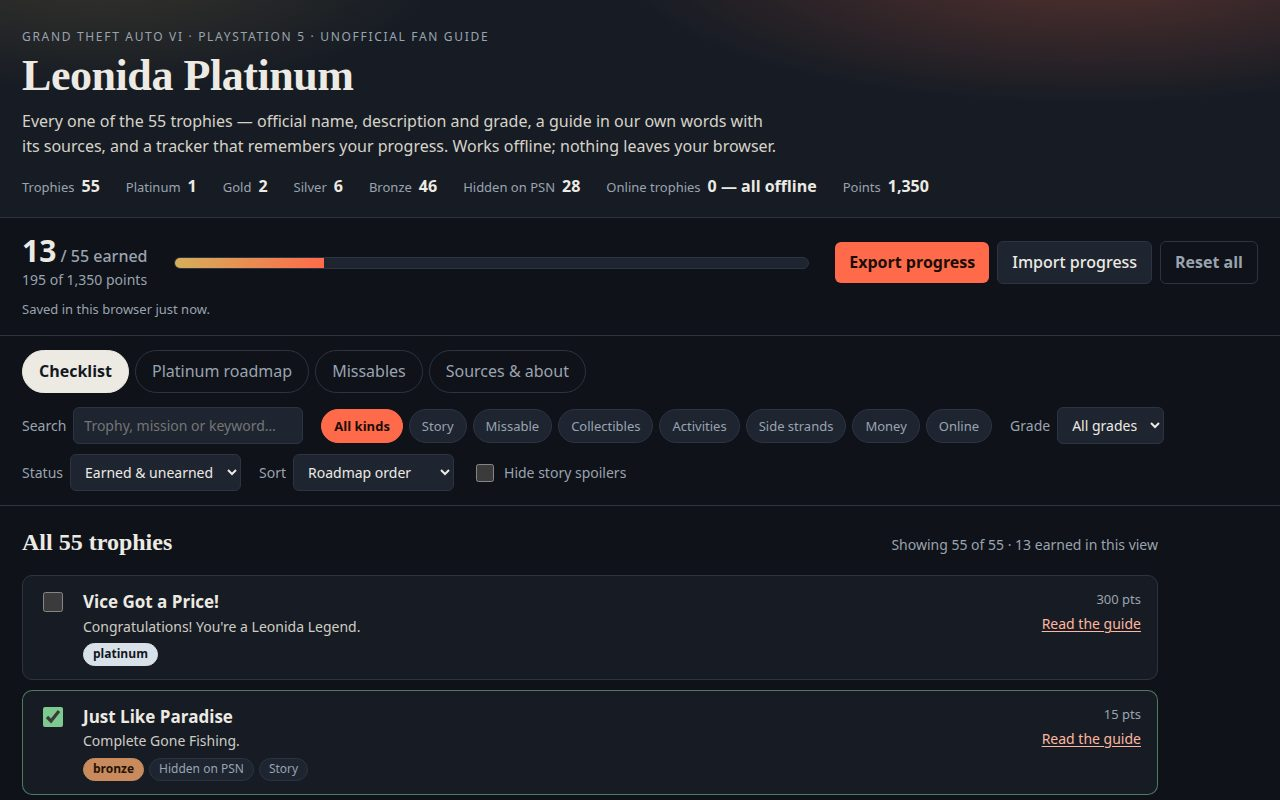
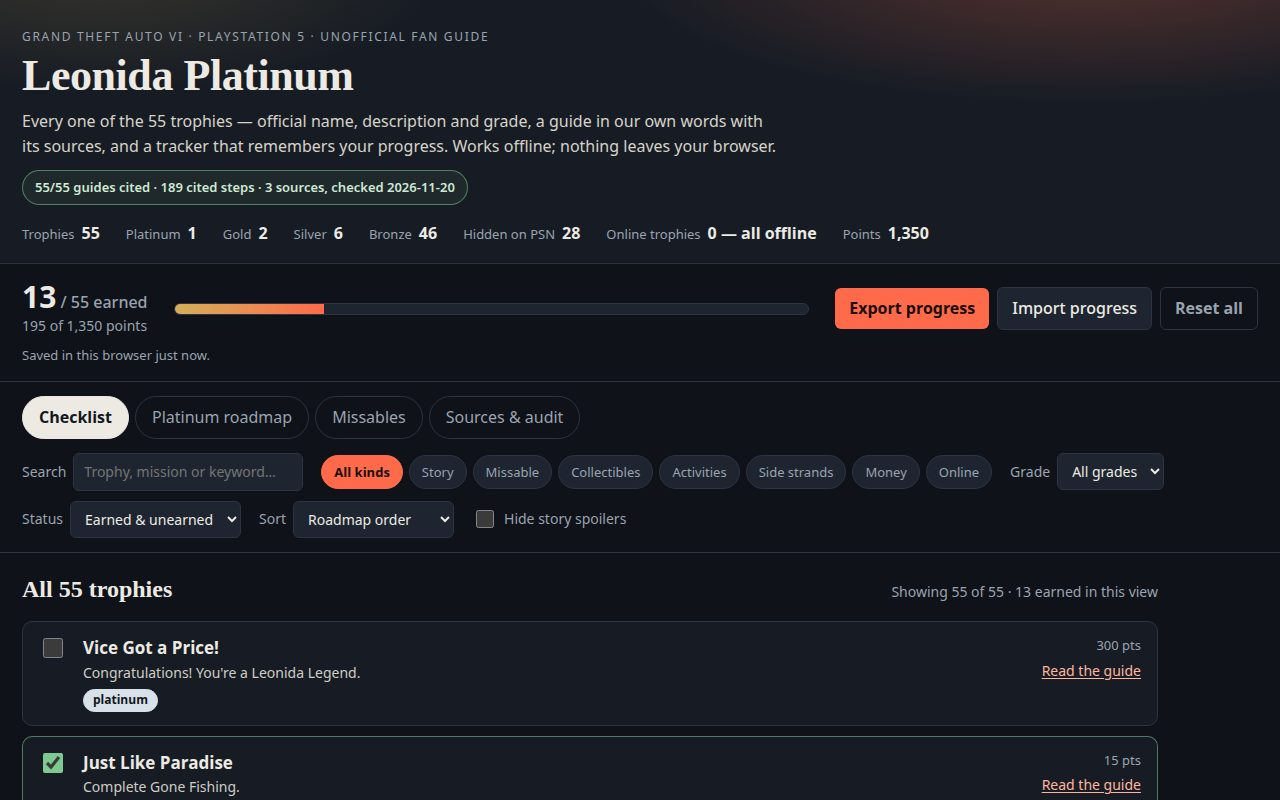
Leonida Platinum v2 (rebuild under recording): 189 cited steps, Sources & audit tab, Chapters 1-5 roadmap fix
- app/data/steps.json: 189 numbered steps for all 55 trophies, each with its
  source beside it (PowerPyx 181, Exophase 7, PSNProfiles 1), plus roadmap
  stage, chapter (30 trophies), mission (29), when-line, and Exophase earned
  rate as of 20 Nov 2026
- Header audit strip: 55/55 guides cited, 189 cited steps, 3 sources
- Sources & audit tab: source matrix + 4 disagreements shown both ways
  (final-mission chapter, Chapter 1 meditation, WAiNK count, Bad Luck method)
- Roadmap Stage 1 corrected: Chapters 1-5 (Snow Storm is Chapter 5)
- Screenshots retaken in headless Chromium (checklist, guide with steps,
  roadmap, audit tab)

diff --git a/app/app.js b/app/app.js
@@ -6,7 +6,14 @@
 
 const STORAGE_KEY = 'leonida-platinum-v1';
 const DATA_URL = 'data/trophies.json';
+const STEPS_URL = 'data/steps.json';
 const TOTAL_POINTS = 1350;
+
+const SOURCE_LABELS = {
+  powerpyx: 'PowerPyx',
+  exophase: 'Exophase',
+  psnprofiles: 'PSNProfiles',
+};
 
 const KIND_LABELS = {
   all: 'All kinds',
@@ -35,6 +42,28 @@ const state = {
 
 let trophies = [];
 let dataMeta = {};
+let stepsData = {};
+let stepsMeta = null;
+
+// Cited steps live in data/steps.json (one entry per trophy): each step is
+// written for this guide in our own words and names its source beside it.
+// The merge below keeps trophies.json (the gate-checked file) untouched.
+function extraFor(t) {
+  return (t && stepsData[String(t.id)]) || null;
+}
+
+function totalCitedSteps() {
+  return trophies.reduce((n, t) => n + ((extraFor(t)?.steps || []).length), 0);
+}
+
+function renderAuditStrip() {
+  const el = $('auditStrip');
+  if (!el) return;
+  const n = totalCitedSteps();
+  const srcs = stepsMeta?.sources?.length ?? 3;
+  const checked = stepsMeta?.checked ?? '2026-11-20';
+  el.textContent = `55/55 guides cited · ${n} cited steps · ${srcs} sources, checked ${checked}`;
+}
 
 const $ = (id) => document.getElementById(id);
 const viewEl = $('view');
@@ -99,7 +128,8 @@ function visibleTrophies() {
     if (state.status === 'earned' && !state.earned.has(t.id)) return false;
     if (state.status === 'unearned' && state.earned.has(t.id)) return false;
     if (q) {
-      const hay = `${t.name} ${t.description} ${t.guide} ${(t.kind || []).join(' ')}`.toLowerCase();
+      const stepsText = (extraFor(t)?.steps || []).map((s) => s.t).join(' ');
+      const hay = `${t.name} ${t.description} ${t.guide} ${stepsText} ${(t.kind || []).join(' ')}`.toLowerCase();
       if (!hay.includes(q)) return false;
     }
     return true;
@@ -262,7 +292,7 @@ const ROADMAP = [
   {
     title: 'Stage 1 — Play the story, and meditate early',
     hours: '60–80 hours',
-    body: 'Play Chapters 1–4 and the final mission in order. This earns the chapter trophies (Paradise Lost, T**s Ass Drug Money, Vice City, Baby!, Top Of The World, Ma), the mission trophies (Just Like Paradise, Trust, Break the Bank, Family Matters, DWNFALL, Hi-Jacked, Snow Storm) and the finale, You Gotta Know When to Get Off. There is no mission replay, so play carefully — but every story trophy here is automatic on completion, so none of them can be missed by failing a mission.',
+    body: 'Play Chapters 1–5 and the final mission in order. This earns the chapter trophies (Paradise Lost, T**s Ass Drug Money, Vice City, Baby!, Top Of The World, Ma), the mission trophies (Just Like Paradise, Trust, Break the Bank, Family Matters, DWNFALL, Hi-Jacked, Snow Storm) and the finale, You Gotta Know When to Get Off. There is no mission replay, so play carefully — but every story trophy here is automatic on completion, so none of them can be missed by failing a mission. Snow Storm is a Chapter 5 mission (Operation Savage Glory): the story runs to five chapters, and an earlier draft of this roadmap that said Chapters 1–4 was wrong — see Sources & audit for the chapter disagreement.',
     warn: 'Do the first meditation in Chapter 1, at Jason\u2019s house, the moment it is offered. PowerPyx flags Positive Mental Attitude as the only potentially missable trophy in the game, because that first meditation spot becomes permanently unavailable after Chapter 1. There are 18 meditation spots in 10 locations; do every one you pass.',
     items: [2, 3, 4, 5, 6, 7, 8, 9, 10, 11, 12, 13, 28],
   },
@@ -376,12 +406,12 @@ function renderMissables() {
   viewEl.append(safe);
 }
 
-function renderAbout() {
+function renderAudit() {
   viewEl.innerHTML = '';
   const box = document.createElement('div');
   box.className = 'prose';
   const h = document.createElement('h2');
-  h.textContent = 'Sources & about';
+  h.textContent = 'Sources & audit';
   const intro = document.createElement('p');
   intro.textContent = 'Every trophy name, description and grade in this guide is PlayStation\u2019s, as published on the official list and mirrored by Exophase and PSNProfiles — the two agree on all 55 names, descriptions and grades. The guides are written for this page in our own words; a guide may draw on other guides and cite them, and never copies their text.';
   const sh = document.createElement('h3');
@@ -401,6 +431,66 @@ function renderAbout() {
     li.append(a);
     list.append(li);
   }
+  // Audit summary, computed from the data the app actually loaded: every
+  // trophy has cited steps, and the counts below are the real ones.
+  const stepCounts = { powerpyx: 0, exophase: 0, psnprofiles: 0 };
+  let withChapter = 0;
+  let withMission = 0;
+  for (const t of trophies) {
+    const extra = extraFor(t);
+    if (!extra) continue;
+    for (const s of extra.steps || []) stepCounts[s.s] = (stepCounts[s.s] || 0) + 1;
+    if (extra.chapter) withChapter += 1;
+    if (extra.mission) withMission += 1;
+  }
+  const auditLine = document.createElement('p');
+  auditLine.className = 'audit-line';
+  auditLine.textContent = `Audit, checked 20 November 2026: 55/55 trophies have a cited guide — ${totalCitedSteps()} cited steps in total (PowerPyx ${stepCounts.powerpyx}, Exophase ${stepCounts.exophase}, PSNProfiles ${stepCounts.psnprofiles}). ${withChapter} trophies name their chapter, ${withMission} name their mission. Every step carries its source beside it; a step with no source earns no credit in this guide.`;
+  const matrixHead = document.createElement('h3');
+  matrixHead.textContent = 'Source matrix — what each source covers';
+  const matrix = document.createElement('table');
+  matrix.className = 'matrix';
+  const matrixRows = [
+    ['Source', 'Covers', 'Steps citing it'],
+    ['Exophase', 'All 55 names, descriptions and grades, plus the earned rate of every trophy (0.00–100.00% on 20 Nov 2026).', String(stepCounts.exophase)],
+    ['PSNProfiles', 'The same 55-name list (the two lists agree on every name, description and grade), plus PSN progress counts — for example 42 Shooting Range challenges.', String(stepCounts.psnprofiles)],
+    ['PowerPyx', 'The roadmap (4/10, about 200 hours, one playthrough, no mission replay, the one potentially missable trophy, cheats disabling trophies) and the 100% checklist details, plus the method behind nearly every step.', String(stepCounts.powerpyx)],
+  ];
+  for (let r = 0; r < matrixRows.length; r += 1) {
+    const tr = document.createElement('tr');
+    for (const cell of matrixRows[r]) {
+      const el = document.createElement(r === 0 ? 'th' : 'td');
+      el.textContent = cell;
+      tr.append(el);
+    }
+    matrix.append(tr);
+  }
+  const disagreeHead = document.createElement('h3');
+  disagreeHead.textContent = 'Where the sources disagree — both sides';
+  const disagreements = [
+    ['The final mission is in Chapter 4 — or Chapter 5?', 'PowerPyx says You Gotta Know When to Get Off unlocks after the final mission in Chapter 4, “Starting From Zero”.', 'PowerPyx also lists Snow Storm (Operation Savage Glory) as a Chapter 5 main mission — and a story with five chapters cannot end in Chapter 4.', 'Our call: the story runs to five chapters and Snow Storm is Chapter 5; the finale’s exact chapter is flagged, not asserted. The roadmap covers Chapters 1–5.'],
+    ['Is the Chapter 1 meditation required for Positive Mental Attitude?', 'PowerPyx: “currently unclear if it’s required for the trophy or not.” The meditation adds +1 to the counter in the Progress menu.', 'The same meditation is not marked as a “Meditation Spot” like the other 18, so it may not count toward the trophy at all.', 'Our call: do it in Chapter 1 anyway. It costs nothing, and it removes the only potentially missable trophy in the game.'],
+    ['How many WAiNK locations are itemized?', 'PowerPyx lists 31 landmarks, 35 curiosities and 23 sculptures — 89 locations by type.', 'The trophy needs 100 WAiNK locations, so 11 or more are not itemized by any source we checked.', 'Our call: we state the 89 itemized and the gap, rather than inventing a category.'],
+    ['How do you earn “Bad Luck, I Guess”?', 'PowerPyx: “currently unknown (believed to be related to the Payday Loans store from Prologue, possibly robbing it later again in a specific manner, it’s located in Vice City – Little Cuba).”', 'Exophase gives no method at all — only the description, “Second time’s the charm.”', 'Our call: the guide presents the Payday Loans guess as a guess, not a fact.'],
+  ];
+  const disagreeBox = document.createElement('div');
+  for (const [title, sideA, sideB, call] of disagreements) {
+    const item = document.createElement('div');
+    item.className = 'disagree';
+    const t = document.createElement('h4');
+    t.textContent = title;
+    const a = document.createElement('p');
+    a.innerHTML = `<strong>One side:</strong> `;
+    a.append(document.createTextNode(sideA));
+    const b = document.createElement('p');
+    b.innerHTML = `<strong>The other side:</strong> `;
+    b.append(document.createTextNode(sideB));
+    const c = document.createElement('p');
+    c.innerHTML = `<strong>Our call:</strong> `;
+    c.append(document.createTextNode(call));
+    item.append(t, a, b, c);
+    disagreeBox.append(item);
+  }
   const honest = document.createElement('h3');
   honest.textContent = 'What is not yet checked';
   const honestP = document.createElement('p');
@@ -409,7 +499,7 @@ function renderAbout() {
   how.textContent = 'How the tracker works';
   const howP = document.createElement('p');
   howP.textContent = 'Tick a trophy and it is saved in this browser (localStorage). Export downloads your progress as JSON; import reads that file back, or a plain list of trophy names. The spoiler switch hides the names and descriptions of hidden story trophies until you earn them. Counters (for example stunts, or WAiNK locations) live on each trophy\u2019s guide panel. Everything runs from these files, with the network off.';
-  box.append(h, intro, sh, list, honest, honestP, how, howP);
+  box.append(h, intro, auditLine, matrixHead, matrix, disagreeHead, disagreeBox, sh, list, honest, honestP, how, howP);
   viewEl.append(box);
 }
 
@@ -423,7 +513,7 @@ function renderView() {
   $('controls').style.display = state.view === 'checklist' ? '' : 'none';
   if (state.view === 'roadmap') renderRoadmap();
   else if (state.view === 'missables') renderMissables();
-  else if (state.view === 'about') renderAbout();
+  else if (state.view === 'audit') renderAudit();
   else renderChecklist();
   renderProgress();
 }
@@ -493,6 +583,37 @@ function openDetail(id) {
     }
   }
   detailEl.append(gh, guide);
+  const extra = extraFor(t);
+  if (!hidden && extra) {
+    const where = document.createElement('p');
+    where.className = 'when-line';
+    const bits = [`Roadmap stage ${extra.stage}`];
+    if (extra.chapter) bits.push(extra.chapter);
+    if (extra.mission) bits.push(`Mission: ${extra.mission}`);
+    bits.push(`When: ${extra.when}`);
+    where.textContent = bits.join(' · ');
+    detailEl.append(where);
+    const rarityLine = document.createElement('p');
+    rarityLine.className = 'rarity-line';
+    rarityLine.textContent = `Exophase, 20 Nov 2026: ${Number(extra.rarity).toFixed(2)}% of players have earned it.`;
+    detailEl.append(rarityLine);
+    if ((extra.steps || []).length) {
+      const stepsHead = document.createElement('h3');
+      stepsHead.textContent = `Steps — ${extra.steps.length} cited steps`;
+      const ol = document.createElement('ol');
+      ol.className = 'steps';
+      for (const step of extra.steps) {
+        const li = document.createElement('li');
+        li.append(document.createTextNode(step.t + ' '));
+        const chip = document.createElement('span');
+        chip.className = 'step-src';
+        chip.textContent = SOURCE_LABELS[step.s] || step.s;
+        li.append(chip);
+        ol.append(li);
+      }
+      detailEl.append(stepsHead, ol);
+    }
+  }
   const sh = document.createElement('h3');
   sh.textContent = 'Sources';
   const list = document.createElement('ul');
@@ -580,8 +701,10 @@ function applyDemoParams() {
     state.counts = { 15: 87, 31: 34, 35: 61 };
     saveState();
   }
-  if (params.get('view') && ['checklist', 'roadmap', 'missables', 'about'].includes(params.get('view'))) {
+  if (params.get('view') && ['checklist', 'roadmap', 'missables', 'audit'].includes(params.get('view'))) {
     state.view = params.get('view');
+  } else if (params.get('view') === 'about') {
+    state.view = 'audit';
   }
   if (params.get('spoilers') === 'on') state.spoilers = true;
   const open = Number(params.get('open'));
@@ -594,9 +717,18 @@ async function boot() {
   const data = await response.json();
   trophies = data.trophies || [];
   dataMeta = data;
+  try {
+    const stepsResponse = await fetch(STEPS_URL);
+    stepsMeta = await stepsResponse.json();
+    stepsData = stepsMeta.trophies || {};
+  } catch {
+    stepsMeta = null;
+    stepsData = {};
+  }
   applyDemoParams();
   $('spoilerToggle').checked = state.spoilers;
   renderFacts();
+  renderAuditStrip();
   renderChips();
   renderView();
   if (state.openId) openDetail(state.openId);

diff --git a/app/style.css b/app/style.css
@@ -51,6 +51,18 @@ h1 {
   letter-spacing: -.01em;
 }
 .lede { max-width: 760px; margin: 10px 0 0; color: #d6d2c9; }
+.audit-strip {
+  display: inline-block;
+  margin: 12px 0 0;
+  padding: 6px 12px;
+  border: 1px solid rgba(126, 201, 143, .55);
+  border-radius: 99px;
+  background: rgba(126, 201, 143, .08);
+  color: #cfe8d4;
+  font-size: 13px;
+  font-weight: 600;
+}
+.audit-strip:empty { display: none; }
 .facts {
   display: flex;
   flex-wrap: wrap;
@@ -254,6 +266,50 @@ main { padding: 18px 22px 30px; max-width: 1180px; }
 .detail h2 { margin: 6px 0 4px; font: 700 25px/1.2 Georgia, Palatino, serif; }
 .detail .desc { color: #cfccc4; margin: 0 0 8px; }
 .detail h3 { font-size: 14px; letter-spacing: .08em; text-transform: uppercase; color: var(--muted); margin: 20px 0 6px; }
+/* Cited steps, audit tab, and detail extras */
+.steps { padding-left: 22px; margin: 6px 0 4px; }
+.steps li { margin: 9px 0; color: #e6e2d9; }
+.step-src {
+  display: inline-block;
+  font-size: 11px;
+  font-weight: 700;
+  letter-spacing: .04em;
+  border: 1px solid var(--line);
+  border-radius: 99px;
+  padding: 1px 8px;
+  margin-left: 4px;
+  color: var(--gold);
+  background: var(--panel2);
+  white-space: nowrap;
+}
+.when-line { font-size: 14px; color: #d6d2c9; margin: 12px 0 2px; }
+.rarity-line { font-size: 13px; color: var(--muted); margin: 2px 0 0; }
+.audit-line {
+  border-left: 4px solid var(--good);
+  background: rgba(126, 201, 143, .08);
+  padding: 12px 16px;
+  border-radius: 0 8px 8px 0;
+  margin: 14px 0;
+}
+.matrix { border-collapse: collapse; margin: 10px 0; width: 100%; font-size: 14px; }
+.matrix th, .matrix td {
+  text-align: left;
+  vertical-align: top;
+  border: 1px solid var(--line);
+  padding: 8px 10px;
+}
+.matrix th { background: var(--panel2); color: var(--ink); }
+.matrix td { color: #d6d2c9; }
+.disagree {
+  background: var(--panel);
+  border: 1px solid var(--line);
+  border-radius: var(--radius);
+  padding: 12px 16px;
+  margin: 10px 0;
+}
+.disagree h4 { margin: 0 0 6px; font-size: 16px; }
+.disagree p { margin: 5px 0; font-size: 14px; }
+
 .detail .guide-text { white-space: pre-line; }
 .detail .guide-text p { margin: 0 0 10px; }
 .detail ul.sources { padding-left: 18px; margin: 4px 0; }

diff --git a/app/index.html b/app/index.html
@@ -13,6 +13,7 @@
   <p class="eyebrow">Grand Theft Auto VI &middot; PlayStation 5 &middot; Unofficial fan guide</p>
   <h1>Leonida Platinum</h1>
   <p class="lede">Every one of the 55 trophies &mdash; official name, description and grade, a guide in our own words with its sources, and a tracker that remembers your progress. Works offline; nothing leaves your browser.</p>
+  <p class="audit-strip" id="auditStrip"></p>
   <dl class="facts" id="facts"></dl>
 </header>
 
@@ -34,7 +35,7 @@
   <button type="button" data-view="checklist" class="active" aria-current="page">Checklist</button>
   <button type="button" data-view="roadmap">Platinum roadmap</button>
   <button type="button" data-view="missables">Missables</button>
-  <button type="button" data-view="about">Sources &amp; about</button>
+  <button type="button" data-view="audit">Sources &amp; audit</button>
 </nav>
 
 <section class="controls" id="controls" aria-label="Filters">

diff --git a/README.md b/README.md
@@ -19,7 +19,8 @@ node serve.ts
 ```
 
 Then open <http://localhost:8080>. It works with the network off: the only
-thing the app loads is its own `app/data/trophies.json`.
+things the app loads are its own `app/data/trophies.json` and
+`app/data/steps.json`.
 
 ## What is in it
 
@@ -29,6 +30,10 @@ thing the app loads is its own `app/data/trophies.json`.
   description, grade, points and hidden flag, plus kind, missable / one-off
   flags, progress targets, a guide in our own words, and cited sources
   (Exophase, PSNProfiles, and PowerPyx where its facts are used).
+- `app/data/steps.json` — the cited steps behind every guide: 189 numbered
+  steps in total (PowerPyx 181, Exophase 7, PSNProfiles 1), each carrying its
+  source beside it, plus each trophy's roadmap stage, chapter, mission, "when"
+  line, and Exophase earned rate as of 20 November 2026. Checked 20 Nov 2026.
 - `screenshots/` — four real renders of the app in a browser (see
   `shots.json` for which view each one shows).
 - `main.ts` — hands the entry in: copies `app/` and `screenshots/` to
@@ -55,6 +60,14 @@ Nine more hidden trophies read like single scenes (a cocktail on Ocean
 Beach, a showroom smash, a bowling alley) and are flagged as one-off moments
 to do when they appear; PowerPyx lists them as not yet pinned down, and the
 guide says so rather than claiming a step nobody has checked.
+
+Every guide is now numbered steps with the source named beside each step —
+189 cited steps across the 55 trophies, with the audit strip in the header
+("55/55 guides cited · 189 cited steps · 3 sources, checked 20 Nov 2026")
+and a "Sources & audit" tab carrying the source matrix and the four places
+where the sources disagree (the final mission's chapter, whether the Chapter 1
+meditation is required, the WAiNK count, and the method for "Bad Luck, I
+Guess"), each shown both ways with the call this guide makes.
 
 ## Sources
 
